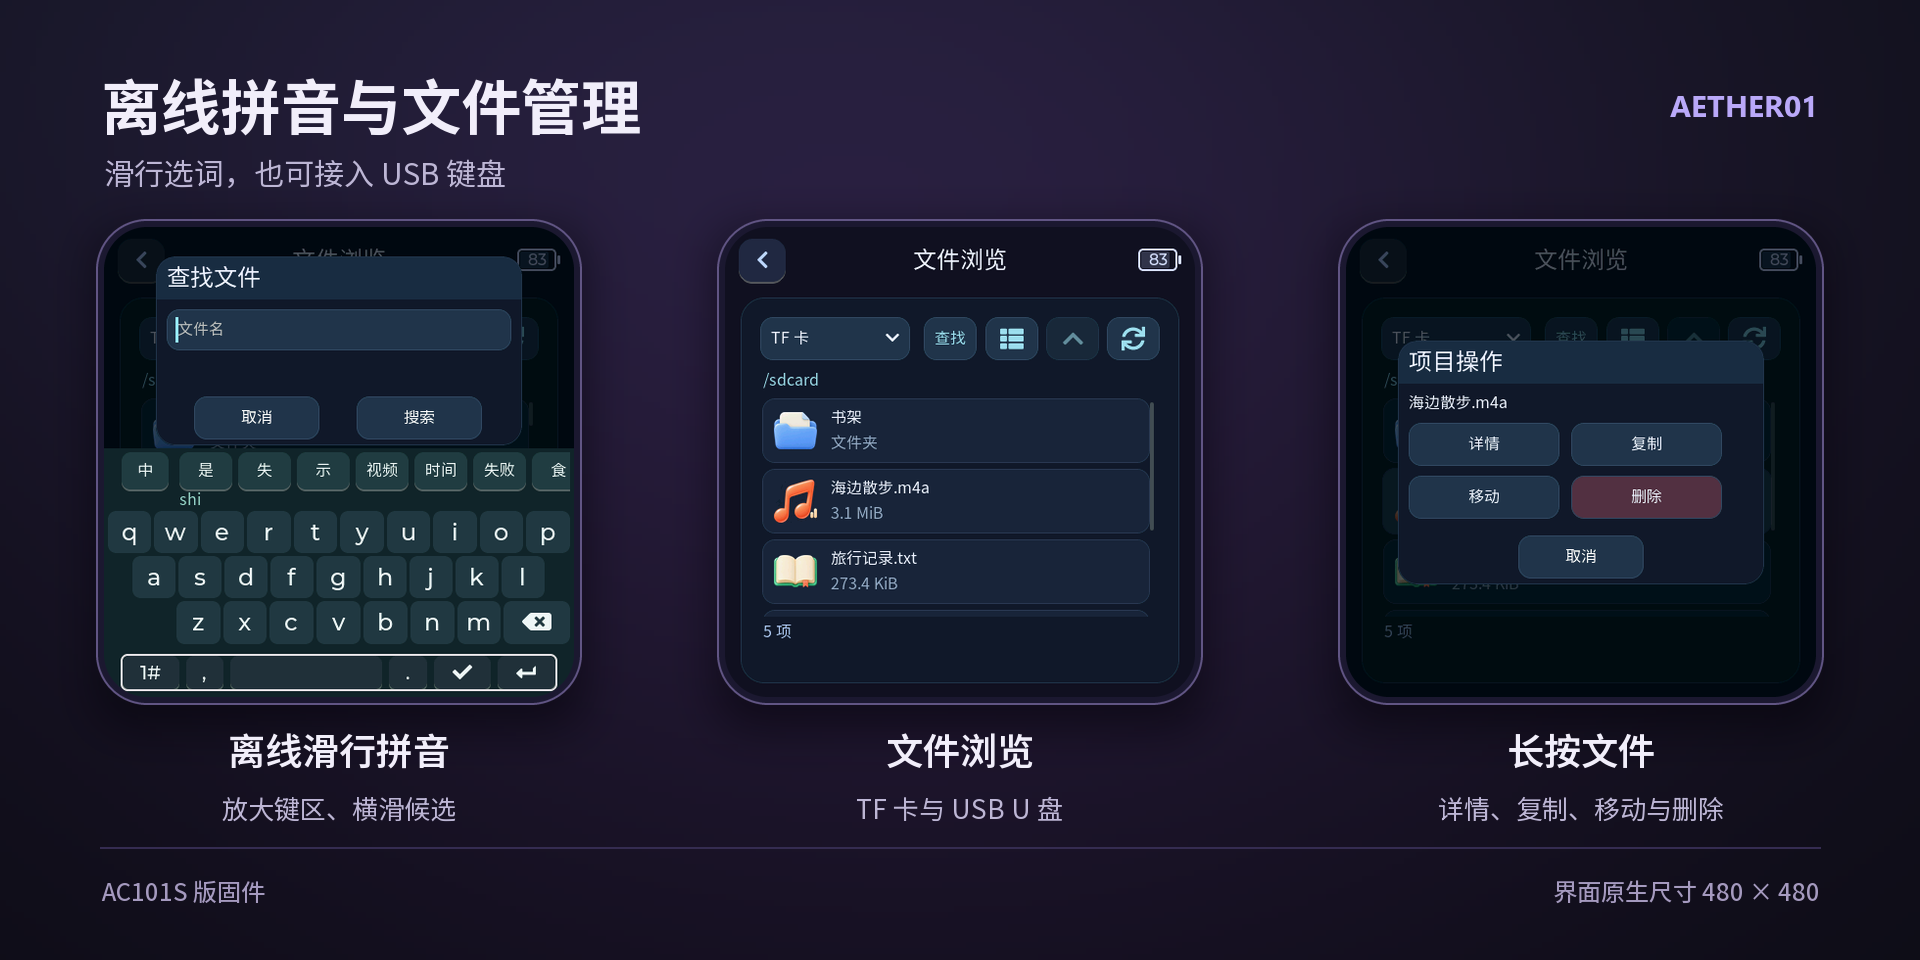
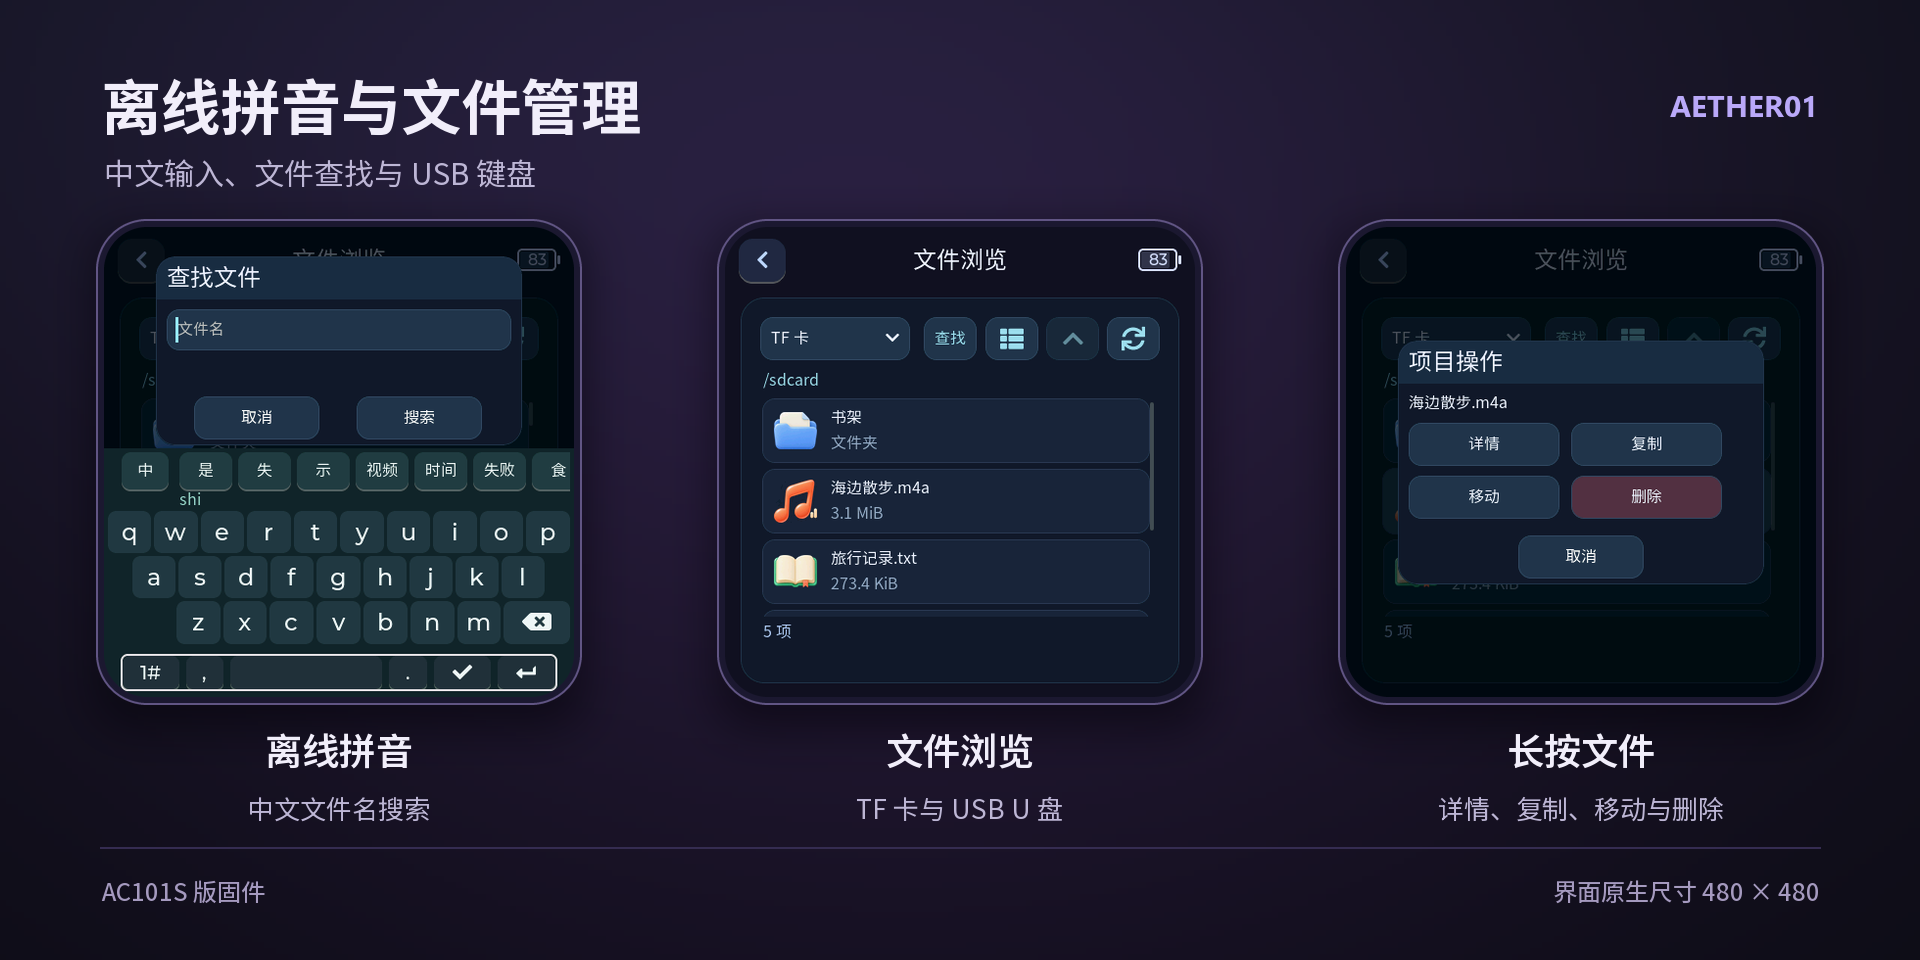
Describe standard Chinese input in the project overview

Changed region(s): [[0.125, 0.75, 0.25, 0.875], [0.0312, 0.1562, 0.2812, 0.2188]]

diff --git a/README.md b/README.md
@@ -39,7 +39,7 @@
 - USB 支持 TF 卡虚拟 U 盘、USB OTG、标准 HID 以及相应的 USB 存储和音频设备。TF 卡支持 FAT32 和 exFAT。
 - 无线功能包括 Wi-Fi、蓝牙耳机、蓝牙键盘、空中飞鼠、OBS 场景快捷键和 ESP-NOW 按键对讲。
 - 桌面显示时钟、天气和设备状态，上滑打开应用列表。从应用返回列表时会恢复滚动位置，列表左上角的 Home 或长按实体用户键 2 秒可回桌面。
-- 日常工具包括闹钟、日历、记事本和天气。离线拼音支持点按、滑行和短句候选，并可根据当前拼音调整相邻字母的触控边界。接入 USB 键盘时自动收起软键盘。[扩展词库安装说明](docs/development/pinyin-extension.md)
+- 日常工具包括闹钟、日历、记事本和天气。离线拼音提供中文输入和候选词选择。接入 USB 键盘时自动收起软键盘。[扩展词库安装说明](docs/development/pinyin-extension.md)
 - 文件浏览支持按名称查找，长按可查看详情、复制、移动或删除。图库直接汇总可识别的图片。传感器工具提供气压、姿态和短程位移估算，空中鼠标的静置校准可保存至 NVS。
 - 内置 2048、推箱子、贪吃蛇和跳一跳。2048 可切换滑动或倾斜。推箱子和贪吃蛇可点游戏区域的四个方向，贪吃蛇也支持倾斜转向。
 

diff --git a/README.en.md b/README.en.md
@@ -20,7 +20,7 @@ Swipe up from the desktop to open the app drawer. Returning to the drawer restor
 
 The firmware includes music playback with a live five-band EQ, video, recording, a TXT reader, NES emulation, USB OTG, Wi-Fi, Bluetooth controls, and ESP-NOW push-to-talk. Everyday tools include alarms, notes, a calendar, and weather. 2048 supports swipe and tilt controls. Sokoban and Snake respond to directional touch regions, and Snake also supports tilt.
 
-Music playback supports synchronized LRC lyrics, previews the target time while scrubbing, and remembers playback position. The recorder shows a live waveform and has its own recording list. The offline Pinyin keyboard supports glide typing, context-sensitive touch boundaries, and an optional vocabulary extension. Long-press a file to see its details, copy it, move it, or delete it.
+Music playback supports synchronized LRC lyrics, previews the target time while scrubbing, and remembers playback position. The recorder shows a live waveform and has its own recording list. The offline Pinyin keyboard supports Chinese text entry with word candidates and an optional vocabulary extension. Long-press a file to see its details, copy it, move it, or delete it.
 
 Build from this checkout using an ESP-IDF 6.1 environment with ESP32-S31 support.
 
